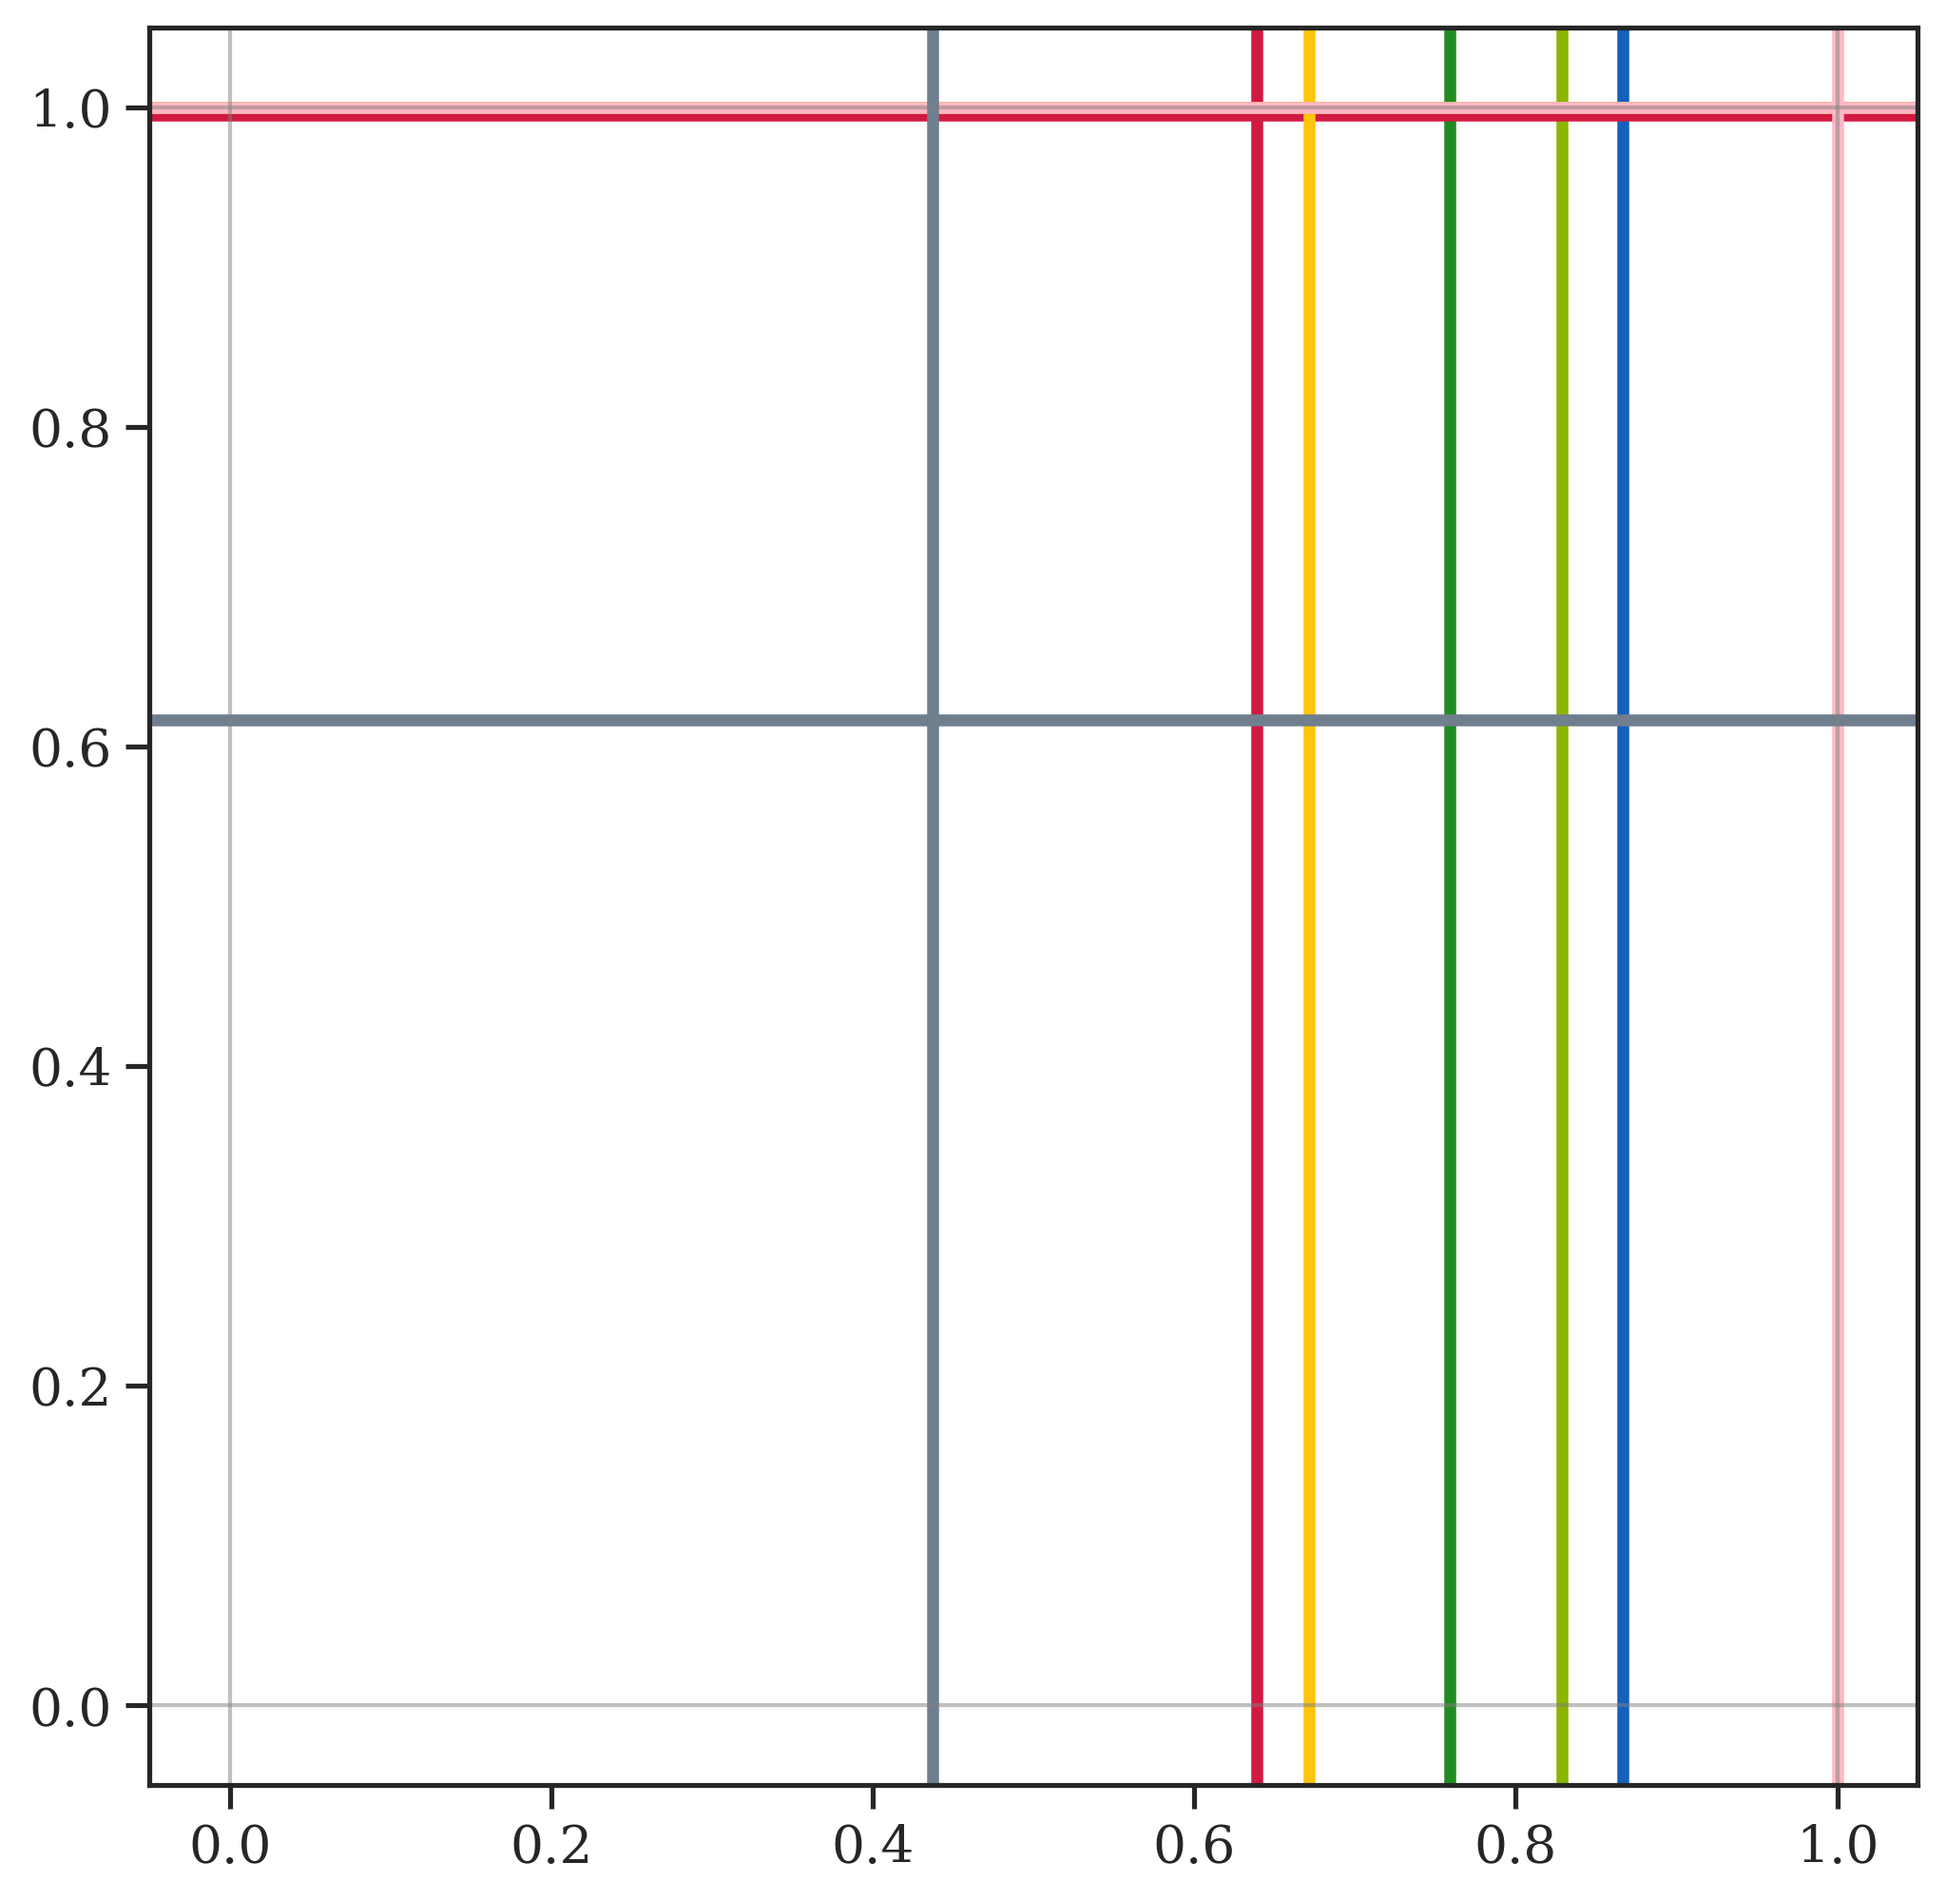
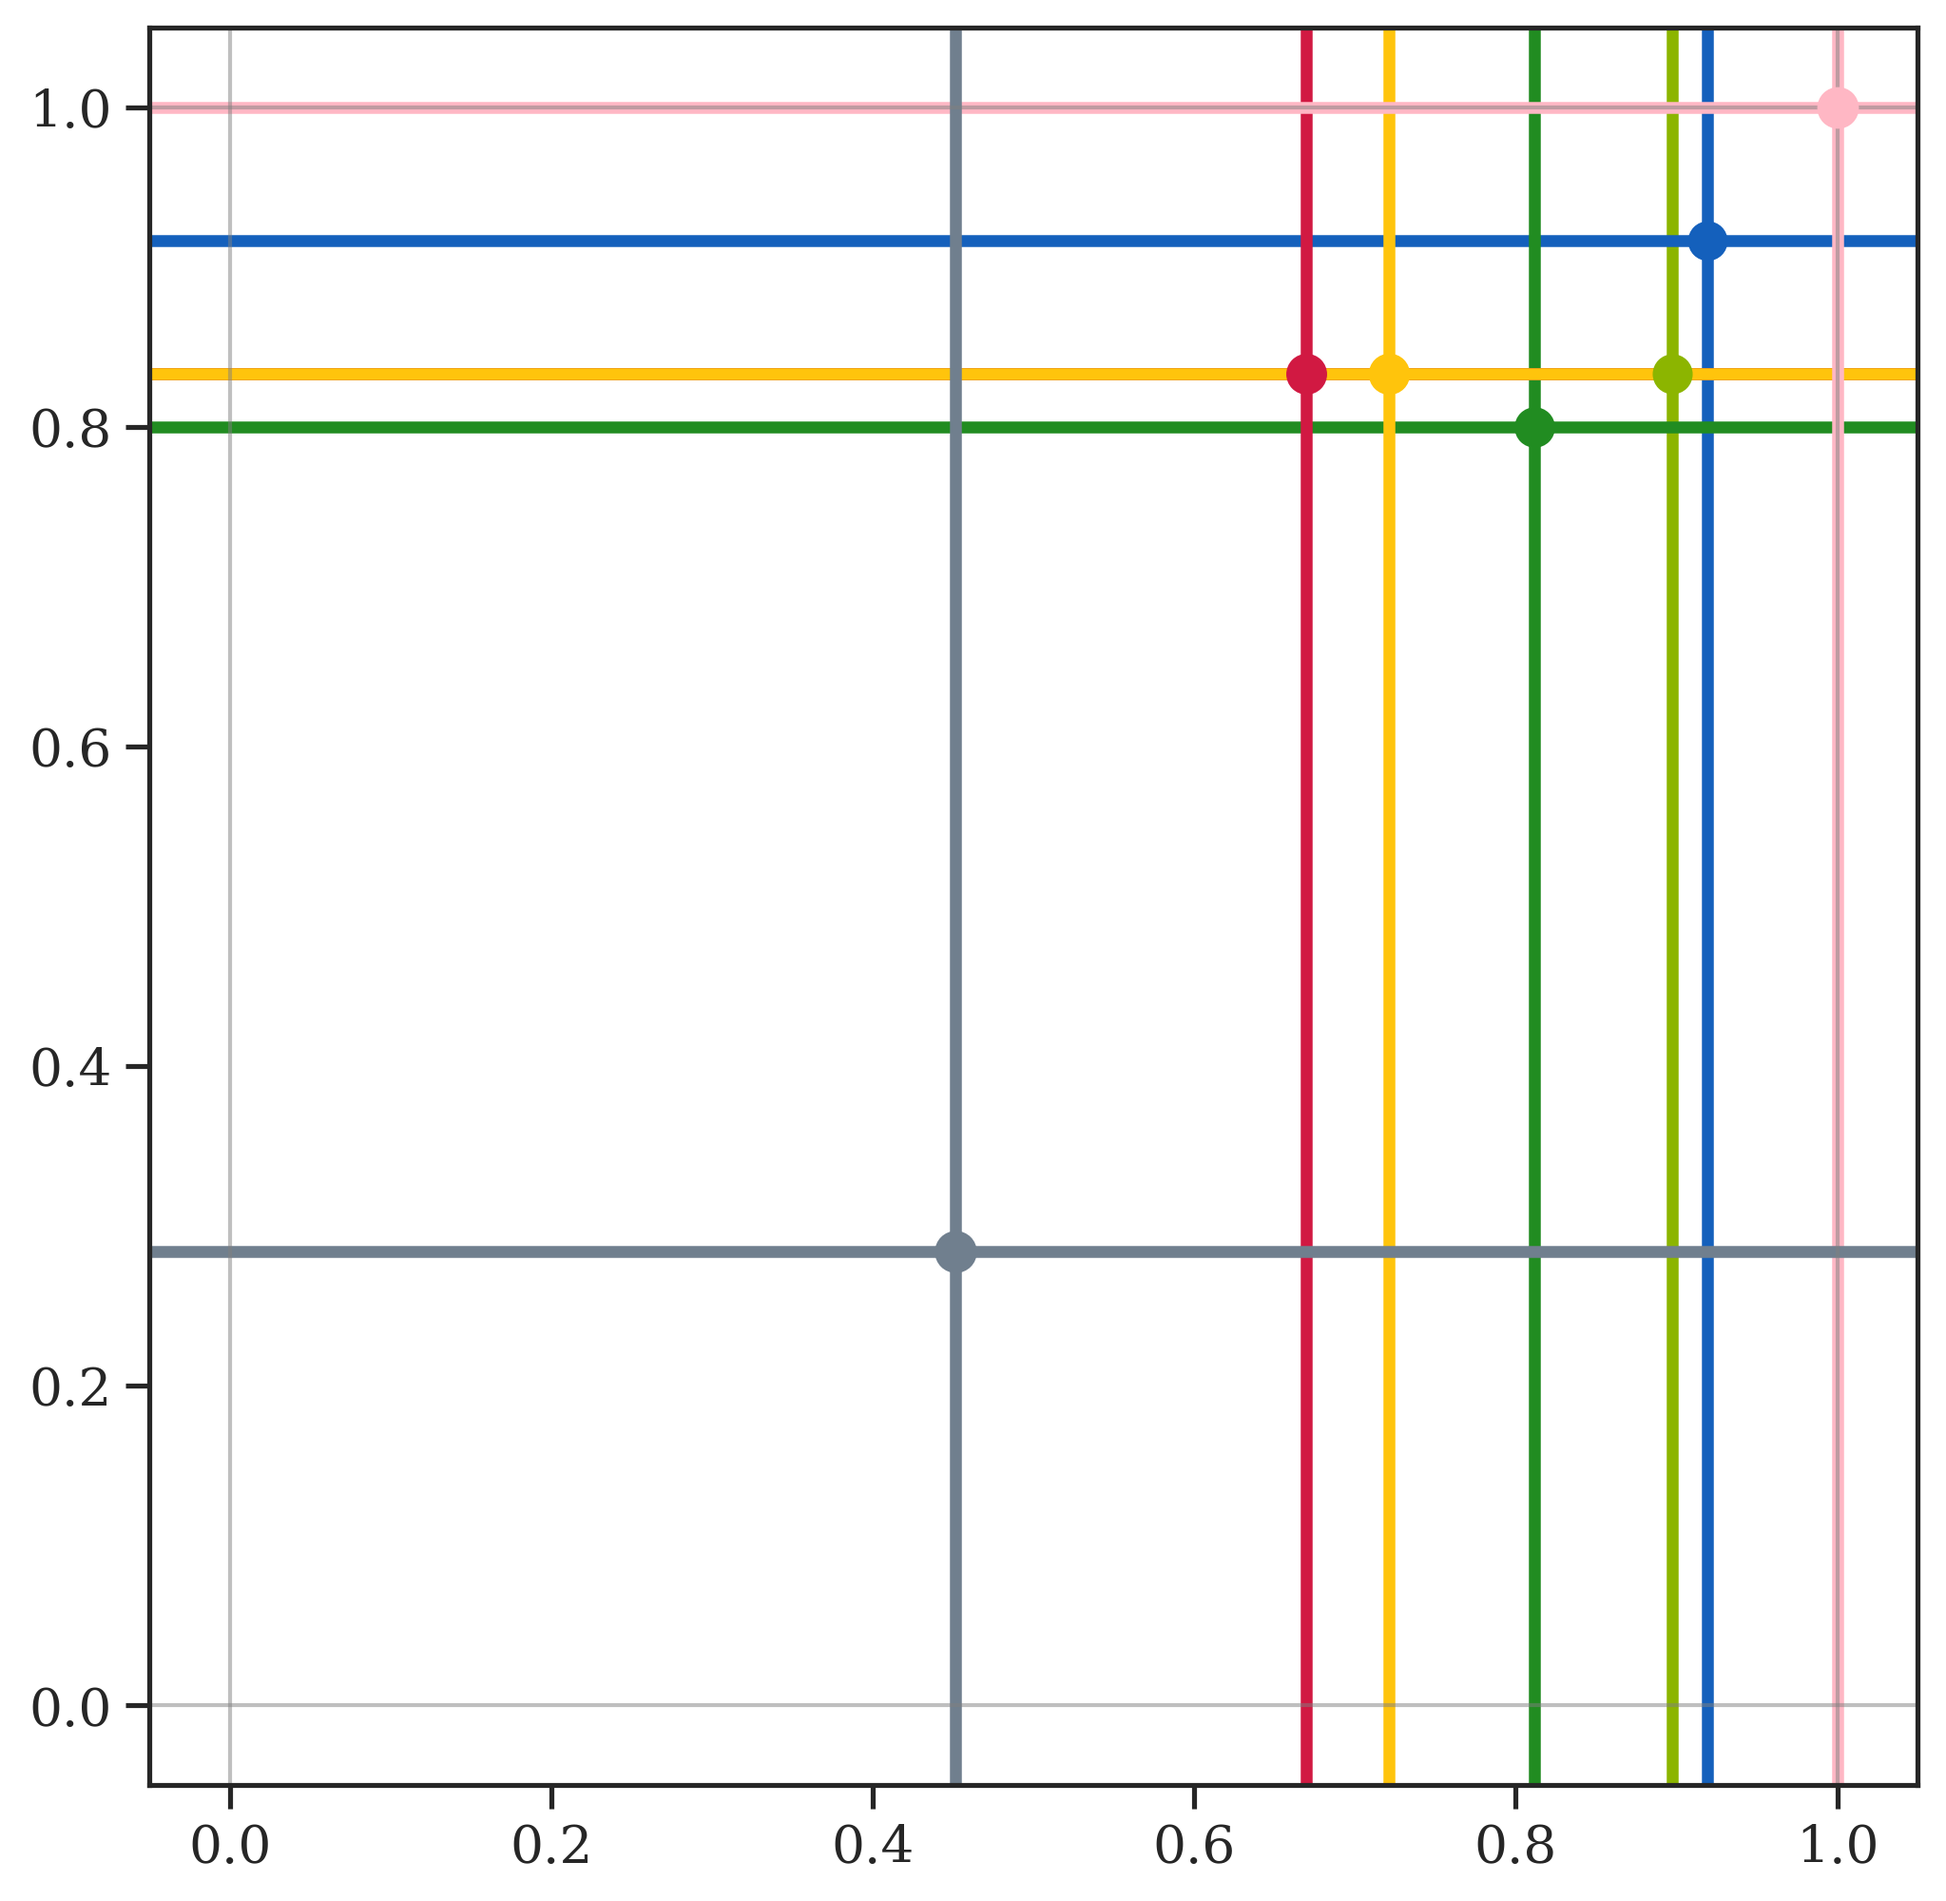
Add bonferonni plots and update line plots

Changed region(s): [[0.0923, 0.0, 0.9849, 0.9305], [0.9233, 0.031, 0.9541, 0.062]]

diff --git a/pipelines/scottish/create_scottish_lineplots.py b/pipelines/scottish/create_scottish_lineplots.py
@@ -13,15 +13,26 @@ import pandas as pd
 import seaborn as sns
 
 import sys
+
 sys.path.append(str(Path(__file__).resolve().parent))
 
 from create_scottish_scatterplots import (
-    load_outputs_by_election_type, 
-    get_limited_metric_key_pairs, 
-    rule_color_map, 
+    load_outputs_by_election_type,
+    get_limited_metric_key_pairs,
+    rule_color_map,
     collect_scatter_points,
-    draw_limited_scatter_base,
 )
+
+rule_to_dot_size = {
+    "borda": 9,
+    "3-approval": 9.1,
+    "2-approval": 9.2,
+    "plurality": 9.3,
+    "stv": 9.4,
+    "ranked-pairs": 9.5,
+    "random": 9.6,
+}
+
 
 def build_limited_line_plot_name(
     line_dir: Path,
@@ -45,13 +56,22 @@ def build_limited_line_plot_name(
     Returns:
         Path: Full output file path.
     """
-    percentile_suffix = f"{int(percentile*100)}th_percentile" if percentile is not None else "mean"
+    percentile_suffix = (
+        f"{int(percentile*100)}th_percentile" if percentile is not None else "mean"
+    )
+    key_to_title = {
+        "sigma_UM": "rho_UM",
+        "sigma_IIA": "rho_IIA",
+        "sigma_UM_winner_set": "sigma_UM",
+        "sigma_IIA_winner_set": "sigma_IIA",
+    }
     return line_dir / (
         f"{percentile_suffix}_line_"
-        f"{um_key.removesuffix(f'_{variant_um}_asin_{tiebreak}')}_vs_"
-        f"{iia_key.removesuffix(f'_{variant_iia}_{tiebreak}')}_"
+        f"{key_to_title[um_key.removesuffix(f'_{variant_um}_asin_{tiebreak}')]}_vs_"
+        f"{key_to_title[iia_key.removesuffix(f'_{variant_iia}_{tiebreak}')]}_"
         "all_voting_rules.png"
     )
+
 
 def add_percentile_lines(
     ax: Axes,
@@ -69,7 +89,7 @@ def add_percentile_lines(
     )
     if percentile is not None:
         threshold_x = pd.Series(x_data).quantile(1 - percentile)
-        threshold_y = pd.Series(y_data).quantile(percentile)
+        threshold_y = pd.Series(y_data).quantile(1 - percentile)
     else:
         threshold_x = pd.Series(x_data).mean()
         threshold_y = pd.Series(y_data).mean()
@@ -89,8 +109,15 @@ def add_percentile_lines(
         zorder=-1,
         alpha=1.0,
     )
+    ax.plot(
+        threshold_x,
+        threshold_y,
+        marker="o",
+        color=rule_color_map[voting_rule],
+        markersize=rule_to_dot_size[voting_rule],
+        zorder=3,
+    )
     return ax
-
 
 
 def run_limited_line_plots(
@@ -100,7 +127,7 @@ def run_limited_line_plots(
     variant_um: str = "worst_case",
     variant_iia: str = "average",
     tiebreak: str = "lex",
-    lineplot_subdir:str = "lineplot_by_voting_rule",
+    lineplot_subdir: str = "lineplot_by_voting_rule",
     overlay_fn: (
         Callable[[Axes, str, str, str, list[float], list[float]], None] | None
     ) = None,
@@ -154,25 +181,54 @@ def run_limited_line_plots(
         ax.set_xlim(-0.05, 1.05)
         ax.set_ylim(-0.05, 1.05)
         ax.vlines(
-            0.0, -0.05, 1.05, color="grey", linestyle="-", linewidth=1, zorder=-1, alpha=0.5
+            0.0,
+            -0.05,
+            1.05,
+            color="grey",
+            linestyle="-",
+            linewidth=1,
+            zorder=-1,
+            alpha=0.5,
         )
         ax.vlines(
-            1.0, -0.05, 1.05, color="grey", linestyle="-", linewidth=1, zorder=-1, alpha=0.5
+            1.0,
+            -0.05,
+            1.05,
+            color="grey",
+            linestyle="-",
+            linewidth=1,
+            zorder=-1,
+            alpha=0.5,
         )
         ax.hlines(
-            0.0, -0.05, 1.05, color="grey", linestyle="-", linewidth=1, zorder=-1, alpha=0.5
+            0.0,
+            -0.05,
+            1.05,
+            color="grey",
+            linestyle="-",
+            linewidth=1,
+            zorder=-1,
+            alpha=0.5,
         )
         ax.hlines(
-            1.0, -0.05, 1.05, color="grey", linestyle="-", linewidth=1, zorder=-1, alpha=0.5
+            1.0,
+            -0.05,
+            1.05,
+            color="grey",
+            linestyle="-",
+            linewidth=1,
+            zorder=-1,
+            alpha=0.5,
         )
         plt.savefig(plot_name, bbox_inches="tight", dpi=300)
         plt.close(fig)
 
+
 def main() -> None:
     """Run the Scottish limited scatterplot pipeline."""
     ordered_rules = [
-        "borda",
         "3-approval",
+        "borda",
         "2-approval",
         "plurality",
         "stv",
@@ -193,7 +249,6 @@ def main() -> None:
         ordered_rules=ordered_rules,
         output_dir=output_dir,
     )
-
 
 
 if __name__ == "__main__":

diff --git a/pipelines/scottish/create_bonferroni_rectangle_plots.py b/pipelines/scottish/create_bonferroni_rectangle_plots.py
@@ -1,0 +1,79 @@
+import matplotlib.pyplot as plt
+from matplotlib.patches import Rectangle
+from pathlib import Path
+import pandas as pd
+
+rule_color_map = {
+    "borda": "#1460bc",         # denim
+    "3-approval": "#8cb500",    # applegreen
+    "2-approval": "#218c21",    # forestgreen
+    "plurality": "#d11942",     # alizarin
+    "stv": "#ffc40c",           # mikadoyellow
+    "ranked-pairs": "#ffb7c4",  # cherryblossompink
+    "random": "#707f8e",        # slategray
+}
+
+TOP_DIR = Path(__file__).resolve().parents[2]
+
+
+def plot_rectangles(df: pd.DataFrame, metric: str, rule_color_map: dict[str, str]):
+    """
+    Plot rectangles [um_L, um_U] x [iia_L, iia_U] for each row in df.
+    
+    Args:
+        df (pd.DataFrame): DataFrame with columns 'um_L', 'um_U', 'iia_L', 'iia_U', 'rule'.
+        rule_color_map (dict[str,str]): dict mapping rule names to colors.
+    """
+    fig, ax = plt.subplots(figsize=(8, 8), dpi=300)
+
+    for idx, row in df.iterrows():
+        x0 = row["um_L"]
+        x1 = row["um_U"]
+        y0 = row["iia_L"]
+        y1 = row["iia_U"]
+        rule = row["rule"]
+
+        color = rule_color_map.get(rule, "black")
+
+        rect = Rectangle(
+            (x0, y0),           # lower-left corner
+            x1 - x0,            # width
+            y1 - y0,            # height
+            facecolor=color,
+            edgecolor=color,
+            linewidth=2,
+            alpha=1.0
+        )
+        ax.add_patch(rect)
+
+
+    # Auto-set limits with a little padding
+    x_min = df["um_L"].min()
+    x_max = df["um_U"].max()
+    y_min = df["iia_L"].min()
+    y_max = df["iia_U"].max()
+
+    x_pad = 0.02 * (x_max - x_min if x_max > x_min else 1)
+    y_pad = 0.02 * (y_max - y_min if y_max > y_min else 1)
+
+    ax.set_xticks([0.6, 0.7, 0.8, 0.9, 1.0])
+    ax.set_xlim(0.56, 1.02)
+    ax.set_ylim(0.47, 1.02)
+
+    ax.tick_params(axis='both', which='major', labelsize=16)
+
+    output_file = TOP_DIR / "plots" / "scottish" / "bonferroni_rectangles" /f"{metric}_bonferroni_rectangle_plot.png"
+    output_file.parent.mkdir(parents=True, exist_ok=True)
+    plt.savefig(output_file, bbox_inches="tight", dpi=300)
+
+    
+if __name__ == "__main__":
+    
+    df = pd.read_csv(TOP_DIR / "stats/scottish_stats/bootstrap/bootstrap_rectangles_sigma_IIA_average_vs_sigma_UM_worst_case_asin.csv")
+
+    total_df = df.query("candidate_size.isna()")
+    plot_rectangles(total_df, "rho_UM", rule_color_map)
+
+    winner_df = pd.read_csv(TOP_DIR / "stats/scottish_stats/bootstrap/bootstrap_rectangles_sigma_IIA_winner_set_average_vs_sigma_UM_winner_set_worst_case_asin.csv")
+    winner_total_df = winner_df.query("candidate_size.isna()")
+    plot_rectangles(winner_total_df, "sigma_UM", rule_color_map)

diff --git a/pipelines/bradley-terry/make_plots/make_mean_vs_var_um_plots.py b/pipelines/bradley-terry/make_plots/make_mean_vs_var_um_plots.py
@@ -12,17 +12,18 @@ from metric_lists import (
     um_metric_list,
     interpolation_type_list,
 )
-colors = [
-    "#FB607F",
-    "#A76BCF",
-    "#FB8B24"
-]
+
+colors = ["#FB607F", "#A76BCF", "#FB8B24"]
 
 script_dir = Path(__file__).parent
 top_dir = script_dir.parents[2].resolve()
 
 plots_dir = top_dir / "plots" / "bt_plots" / "mean_vs_var"
 
+metric_to_plot_name = {
+    "sigma_UM": "rho_UM",
+    "sigma_UM_winner_set": "sigma_UM",
+}
 
 # ============================
 #   UM PLOTS BY OVERALL TYPE
@@ -37,8 +38,10 @@ for metric in um_metric_list:
     }
 
     for idx, interpolation_type in enumerate(interpolation_type_list):
-        output_file = plots_dir / f"{interpolation_type}__{metric}__worst_case__mean_vs_var.png"
-        print(interpolation_type)
+        output_file = (
+            plots_dir
+            / f"{interpolation_type}__{metric_to_plot_name[metric]}__worst_case__mean_vs_var.png"
+        )
         file_basename = (
             f"METRIC_{metric}"
             f"__VARIANT_worst_case"
@@ -65,12 +68,11 @@ for metric in um_metric_list:
                 data = json.load(f)
 
             data_points[i] = [float(np.mean(data)), float(np.var(data))]
-        
 
         inerpolation_type_to_data[interpolation_type] = np.array(data_points)
 
         fig, ax = plt.subplots(figsize=(20, 20), dpi=300)
-
+        print(f"NUMBER OF POINTS {len(data_points)}")
         data_points = np.array(data_points)
         ax.scatter(
             data_points[:, 0],
@@ -79,7 +81,7 @@ for metric in um_metric_list:
             edgecolors="none",
             alpha=1.0,
         )
-        
+
         # Add line of best fit
         if len(data_points) > 1:
             z = np.polyfit(data_points[:, 0], data_points[:, 1], 1)
@@ -90,9 +92,10 @@ for metric in um_metric_list:
             ax.plot(x_line, p(x_line), color="black", linewidth=3, alpha=1.0)
 
         ax.set_xlim(-0.05, 1.05)
-        ax.set_ylim(-0.005, 0.2)
-        ax.set_xlabel("Mean")
-        ax.set_ylabel("Variance")
+        ax.set_ylim(-0.005, 0.205)
+
+        ax.set_yticks([0, 0.05, 0.1, 0.15, 0.2])
+        ax.tick_params(axis="both", which="major", labelsize=24)
         plt.savefig(
             output_file,
             bbox_inches="tight",
